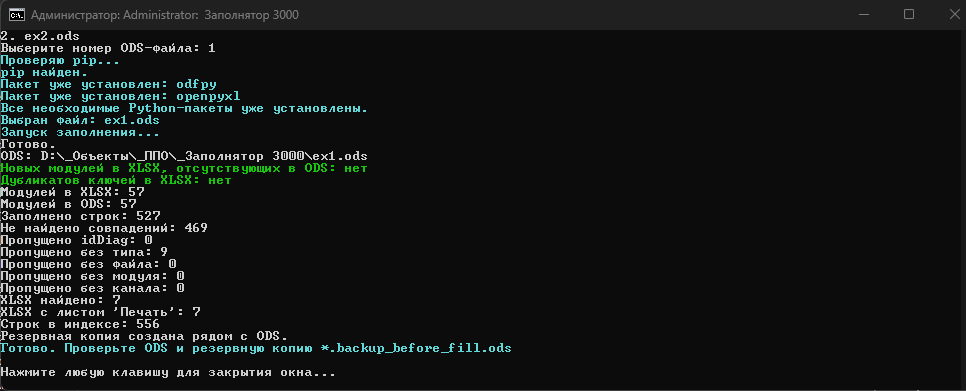
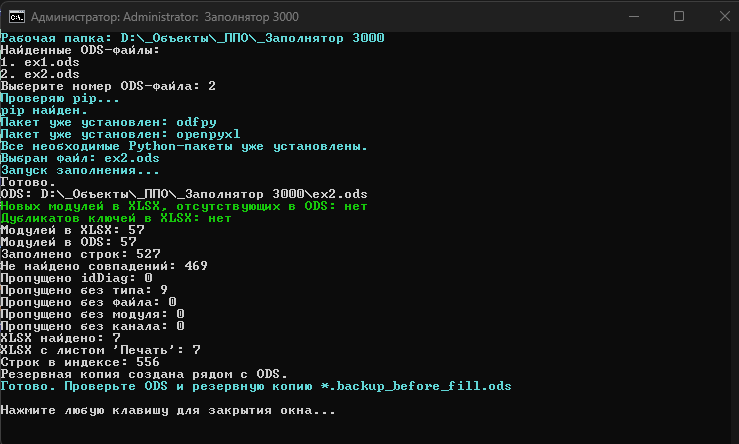
Update readme

Changed region(s): [[0.0, 0.0, 1.0, 1.0], [0.9648, 0.0307, 0.9959, 0.0614], [0.9026, 0.0307, 0.9337, 0.0614]]

diff --git a/README.md b/README.md
@@ -18,6 +18,12 @@
 - номер канала;
 - тип сигнала.
 
+## Пример результата
+
+![До и после обработки](assets/screenshots/before-after.png)
+
+Слева — обезличенный фрагмент листа `Сигналы` до обработки, справа — тот же фрагмент после сопоставления с данными XLSX. Во время обработки программа также создаёт резервную копию исходного ODS и выводит диагностику: количество заполненных строк, отсутствующие совпадения, дубликаты и новые модули.
+
 ## Возможности
 
 - поиск XLSX-файлов во вложенных каталогах;
